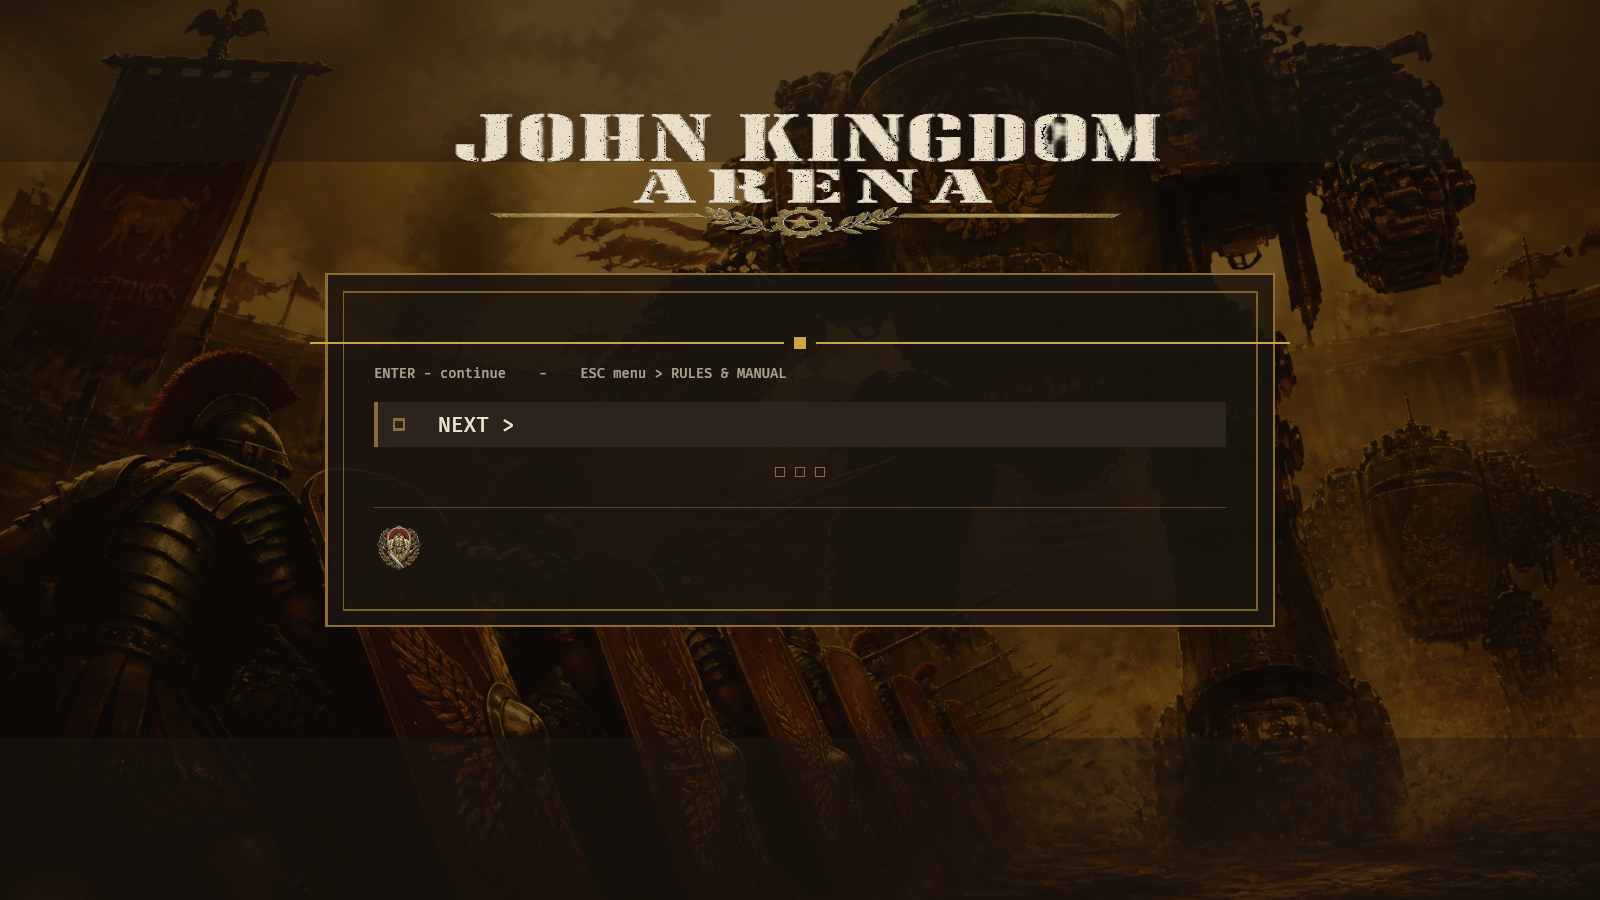
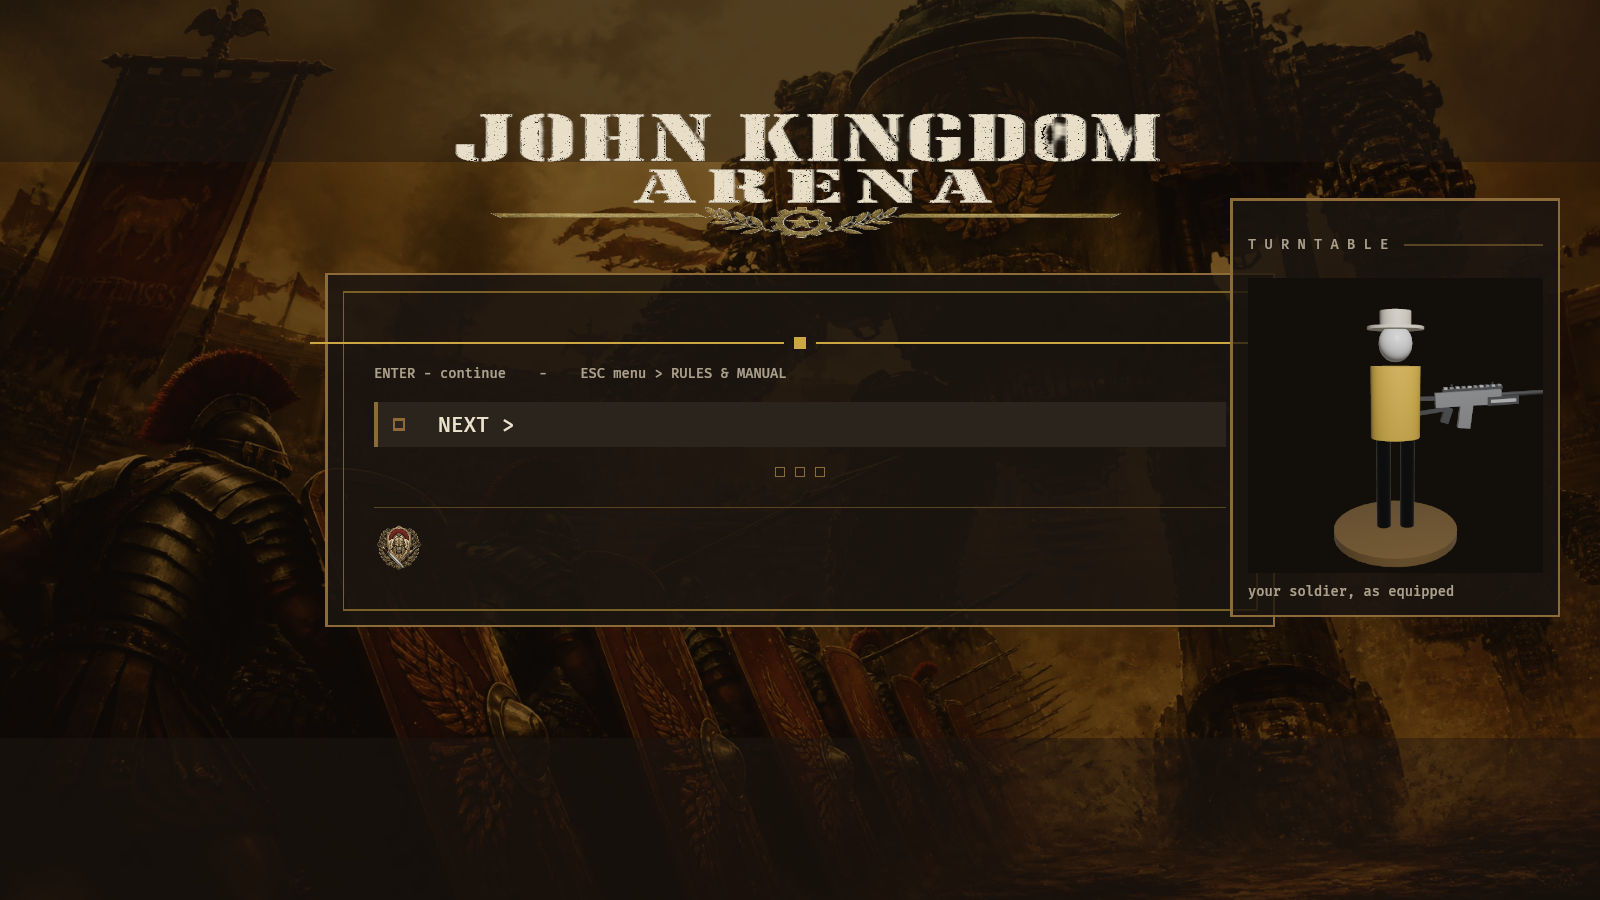
The Forge gets its turntable - the editor finally shows you the soldier
§7.2/§8.2's centrepiece: a live, rotating preview of the kit you are
assembling, rendered on its own layer to a texture the soldier page
frames. Pick a hat and the mannequin's hat recolours; pick a tunic,
same; pick a primary and the weapon on the stand swaps to that model.
The stand turns at 0.55 rad/s, Intro only.

MECHANISM. A stage far under the map - pedestal, mannequin, one
pre-spawned weapon model per kind - on FORGE_PREVIEW_LAYER, filmed by
its own camera (order -2) into a 512px Bgra8UnormSrgb target that a UI
ImageNode displays inside an engraved card. Layer isolation cuts both
ways: the main camera never sees the stage, the stage camera never sees
the world. RenderLayers does not propagate to children in Bevy 0.15, so
the stage tree is stamped once post-flush - the same pattern
tag_viewmodel_layer has always used, for the same reason.

ONE ORDERING TRAP, DODGED BY DESIGN THIS TIME. The card cannot be
spawned inside open_intro: the app boots into Intro and that first
OnEnter runs before setup has built the stage - the exact trap that once
cost the intro its key art. Instead a late-attach system adds the card
whenever an IntroRoot exists without one and the stage is ready. No
ordering to get right at all; the first capture caught the missing card
and the second proves it attached.

The cosmetic materials are unique handles recoloured in place, and the
sync system only runs when Selected actually changes.
[…]

Changed region(s): [[0.75, 0.2178, 1.0, 0.6844]]

diff --git a/engine/crates/jk_tdm/src/main.rs b/engine/crates/jk_tdm/src/main.rs
@@ -1757,6 +1757,27 @@ const N_WEAPONS: usize = 11;
 /// §2.3: render layer for the first-person viewmodel - seen only by the
 /// dedicated fixed-FOV viewmodel camera, never by the world camera.
 const VIEWMODEL_LAYER: usize = 1;
+/// §7.2/§8.2: the Forge TURNTABLE renders on its own layer, to a texture
+/// the soldier page shows as a UI image. Layer isolation means the main
+/// camera never sees the stage and the stage camera never sees the world.
+const FORGE_PREVIEW_LAYER: usize = 6;
+const FORGE_PREVIEW_PX: u32 = 512;
+/// The stage lives far under the map - irrelevant to rendering (layers
+/// isolate it) but keeps physics/audio/debug tooling from ever tripping
+/// over it.
+const FORGE_STAGE_POS: Vec3 = Vec3::new(300.0, -50.0, 300.0);
+
+/// §7.2: the turntable's handles - the UI image, the rotating stand, one
+/// pre-spawned weapon model per kind, and the two cosmetic materials the
+/// sync system recolours in place.
+#[derive(Resource)]
+struct ForgePreview {
+    image: Handle<Image>,
+    stand: Entity,
+    weapons: [Entity; N_WEAPONS],
+    hat_mat: Handle<StandardMaterial>,
+    tunic_mat: Handle<StandardMaterial>,
+}
 /// Viewmodel camera FOV. §1.2 (Brief VI): CS:GO Classic preset = 68°.
 const VM_FOV_DEG: f32 = 68.0;
 // ---- §1.3 (Brief VI): the no-bounce contract ------------------------------
@@ -4062,6 +4083,7 @@ fn main() {
                 minimap_system,
                 zone_overlay,
                 tag_viewmodel_layer,
+                tag_forge_preview_layer,
             ),
         )
         .init_resource::<DebugZones>()
@@ -4113,6 +4135,9 @@ fn main() {
                 intro_diff_buttons,
                 intro_size_buttons,
                 tech_readout, // §14: live weapon numbers on the loadout
+                forge_preview_spin,
+                forge_preview_sync,
+                attach_turntable_card,
                 forge_keybinds, // §7.2 (Brief VII v2): Ctrl+1/2/3 save, 1/2/3 load
                 lobby_toast,    // ...and where its confirmations appear
             )
@@ -5955,6 +5980,7 @@ fn setup(
     asset_server: Res<AssetServer>,
     mut meshes: ResMut<Assets<Mesh>>,
     mut materials: ResMut<Assets<StandardMaterial>>,
+    mut images: ResMut<Assets<Image>>,
 ) {
     let game = Game {
         sim: TdmSim::new(MatchConfig::default()),
@@ -6114,6 +6140,133 @@ fn setup(
     let red = materials.add(unlit(Color::srgb(0.92, 0.18, 0.15)));
     commands.insert_resource(BarAssets { green, orange, red });
     commands.insert_resource(kit.clone());
+
+    // ---- §7.2 the Forge turntable stage --------------------------------
+    // A mannequin on a slowly turning pedestal, lit and filmed by its own
+    // camera into a texture. The soldier page frames that texture, so the
+    // player SEES the kit they are assembling - the piece that turns the
+    // Forge from a save file into an editor.
+    {
+        use bevy::render::camera::RenderTarget;
+        use bevy::render::render_resource::{
+            Extent3d, TextureDescriptor, TextureDimension, TextureFormat, TextureUsages,
+        };
+        let size = Extent3d {
+            width: FORGE_PREVIEW_PX,
+            height: FORGE_PREVIEW_PX,
+            depth_or_array_layers: 1,
+        };
+        let mut target = Image {
+            texture_descriptor: TextureDescriptor {
+                label: Some("forge_turntable"),
+                size,
+                dimension: TextureDimension::D2,
+                format: TextureFormat::Bgra8UnormSrgb,
+                mip_level_count: 1,
+                sample_count: 1,
+                usage: TextureUsages::TEXTURE_BINDING
+                    | TextureUsages::COPY_DST
+                    | TextureUsages::RENDER_ATTACHMENT,
+                view_formats: &[],
+            },
+            ..default()
+        };
+        target.resize(size);
+        let image = images.add(target);
+
+        // the stage's own camera - renders BEFORE the main pass
+        commands.spawn((
+            Camera3d::default(),
+            Camera {
+                target: RenderTarget::Image(image.clone()),
+                order: -2,
+                clear_color: ClearColorConfig::Custom(Color::srgb(0.07, 0.055, 0.04)),
+                ..default()
+            },
+            Transform::from_translation(FORGE_STAGE_POS + Vec3::new(1.5, 1.35, 2.1))
+                .looking_at(FORGE_STAGE_POS + Vec3::new(0.0, 0.85, 0.0), Vec3::Y),
+            RenderLayers::layer(FORGE_PREVIEW_LAYER),
+        ));
+        commands.spawn((
+            PointLight {
+                intensity: 300_000.0,
+                range: 12.0,
+                ..default()
+            },
+            Transform::from_translation(FORGE_STAGE_POS + Vec3::new(1.6, 2.6, 1.4)),
+            RenderLayers::layer(FORGE_PREVIEW_LAYER),
+        ));
+
+        // unique cosmetic materials the sync system recolours in place
+        let hat_mat = materials.add(metal(Color::srgb(0.92, 0.90, 0.85), 0.0, 0.5));
+        let tunic_mat = materials.add(metal(Color::srgb(0.80, 0.65, 0.26), 0.0, 0.55));
+        let shell = materials.add(metal(Color::srgb_u8(0xED, 0xEE, 0xF0), 0.0, 0.42));
+        let dark = materials.add(metal(Color::srgb_u8(0x17, 0x19, 0x1D), 0.85, 0.22));
+        let bronze_ped = materials.add(metal(Color::srgb(0.55, 0.42, 0.22), 0.3, 0.5));
+
+        // the STAND - everything on it rotates together
+        let stand = commands
+            .spawn((
+                Transform::from_translation(FORGE_STAGE_POS),
+                Visibility::default(),
+            ))
+            .id();
+        let part = |commands: &mut Commands,
+                    mesh: Handle<Mesh>,
+                    mat: Handle<StandardMaterial>,
+                    tr: Vec3,
+                    sc: Vec3| {
+            let e = commands
+                .spawn((
+                    Mesh3d(mesh),
+                    MeshMaterial3d(mat),
+                    Transform {
+                        translation: tr,
+                        rotation: Quat::IDENTITY,
+                        scale: sc,
+                    },
+                ))
+                .set_parent(stand)
+                .id();
+            e
+        };
+        // pedestal
+        part(&mut commands, kit.cyl.clone(), bronze_ped, Vec3::new(0.0, 0.03, 0.0), Vec3::new(0.95, 0.06, 0.95));
+        // mannequin: legs / torso in TUNIC / head / HAT crown + brim
+        part(&mut commands, kit.cyl.clone(), dark.clone(), Vec3::new(-0.09, 0.42, 0.0), Vec3::new(0.11, 0.72, 0.11));
+        part(&mut commands, kit.cyl.clone(), dark.clone(), Vec3::new(0.09, 0.42, 0.0), Vec3::new(0.11, 0.72, 0.11));
+        part(&mut commands, kit.cyl.clone(), tunic_mat.clone(), Vec3::new(0.0, 1.02, 0.0), Vec3::new(0.36, 0.52, 0.26));
+        part(&mut commands, kit.ball.clone(), shell, Vec3::new(0.0, 1.44, 0.0), Vec3::new(0.24, 0.26, 0.24));
+        part(&mut commands, kit.cyl.clone(), hat_mat.clone(), Vec3::new(0.0, 1.60, 0.0), Vec3::new(0.22, 0.12, 0.22));
+        part(&mut commands, kit.cyl.clone(), hat_mat.clone(), Vec3::new(0.0, 1.545, 0.0), Vec3::new(0.40, 0.02, 0.40));
+        // one weapon model per kind, held out beside the mannequin; the
+        // sync system shows the selected primary and hides the rest
+        let mut weapons = [Entity::PLACEHOLDER; N_WEAPONS];
+        for (wi, wk) in ALL_WEAPONS.into_iter().enumerate() {
+            let model = spawn_weapon_model(&mut commands, &kit, wk, true, false);
+            commands
+                .entity(model)
+                .insert((
+                    Transform {
+                        translation: Vec3::new(0.44, 1.02, 0.0),
+                        // side-on, slightly raked - a display pose
+                        rotation: Quat::from_rotation_y(FRAC_PI_2)
+                            * Quat::from_rotation_x(-0.06),
+                        scale: Vec3::splat(1.15),
+                    },
+                    Visibility::Hidden,
+                ))
+                .set_parent(stand);
+            weapons[wi] = model;
+        }
+        commands.insert_resource(ForgePreview {
+            image,
+            stand,
+            weapons,
+            hat_mat,
+            tunic_mat,
+        });
+    }
 
     // ---- shot / impact FX pools ----------------------------------------
     commands.insert_resource(FxAssets {
@@ -9846,6 +9999,146 @@ fn camera_system(
 /// walk the viewmodel hierarchy once (after the spawn flush) and stamp
 /// every descendant onto the viewmodel layer so only the fixed-FOV
 /// viewmodel camera renders it.
+#[derive(Component)]
+struct TurntableCard;
+
+/// §7.2: attach the turntable card to the intro AFTER both exist.
+///
+/// It cannot be spawned inside `open_intro`: the app boots into Intro and
+/// that first `OnEnter` runs before `setup` has built the stage - the
+/// same startup-ordering trap that once cost the intro its key art. A
+/// late attach needs no ordering at all: whenever an IntroRoot exists
+/// with no card and the stage is ready, the card appears.
+fn attach_turntable_card(
+    mut commands: Commands,
+    fp: Option<Res<ForgePreview>>,
+    intro: Query<Entity, With<IntroRoot>>,
+    existing: Query<(), With<TurntableCard>>,
+) {
+    let Some(fp) = fp else { return };
+    if !existing.is_empty() {
+        return;
+    }
+    let Ok(root) = intro.get_single() else { return };
+    commands.entity(root).with_children(|p| {
+        p.spawn((
+            Node {
+                position_type: PositionType::Absolute,
+                right: Val::Percent(2.5),
+                top: Val::Percent(22.0),
+                width: Val::Px(264.0),
+                flex_direction: FlexDirection::Column,
+                border: UiRect::all(Val::Px(menu_ui::RULE_STAMP_PX)),
+                padding: UiRect::all(Val::Px(menu_ui::U3)),
+                row_gap: Val::Px(menu_ui::U2),
+                ..default()
+            },
+            BackgroundColor(menu_ui::shadow_a(menu_ui::PLATE_A)),
+            BorderColor(branding::palette::BRONZE),
+            BorderRadius::ZERO,
+            ZIndex(menu_ui::ZL_PLATE),
+            OnIntroPage(IntroPage::SOLDIER),
+            TurntableCard,
+        ))
+        .with_children(|card| {
+            menu_ui::eyebrow(card, "TURNTABLE");
+            card.spawn((
+                Node {
+                    width: Val::Px(236.0),
+                    height: Val::Px(236.0),
+                    border: UiRect::all(Val::Px(menu_ui::RULE_HAIR_PX)),
+                    ..default()
+                },
+                BorderColor(menu_ui::gold_a(menu_ui::FRAME_INNER_A)),
+                ImageNode {
+                    image: fp.image.clone(),
+                    ..default()
+                },
+            ));
+            card.spawn((
+                Text::new("your soldier, as equipped"),
+                TextFont {
+                    font_size: menu_ui::T_MICRO,
+                    ..default()
+                },
+                TextColor(branding::palette::PARCHMENT_DIM),
+            ));
+        });
+    });
+}
+
+/// §7.2: stamp the whole turntable stage onto its layer once the spawn
+/// flush has run - RenderLayers does not propagate to children in Bevy
+/// 0.15, the same reason `tag_viewmodel_layer` below exists.
+fn tag_forge_preview_layer(
+    mut done: Local<bool>,
+    mut commands: Commands,
+    fp: Res<ForgePreview>,
+    children: Query<&Children>,
+) {
+    if *done {
+        return;
+    }
+    let mut stack = vec![fp.stand];
+    let mut count = 0usize;
+    while let Some(e) = stack.pop() {
+        commands
+            .entity(e)
+            .insert(RenderLayers::layer(FORGE_PREVIEW_LAYER));
+        count += 1;
+        if let Ok(ch) = children.get(e) {
+            stack.extend(ch.iter().copied());
+        }
+    }
+    if count > 1 {
+        *done = true;
+    }
+}
+
+/// §7.2: the turntable TURNS. Intro only - the stage is invisible
+/// everywhere else, so spinning it would be free but pointless.
+fn forge_preview_spin(
+    time: Res<Time>,
+    fp: Res<ForgePreview>,
+    mut q: Query<&mut Transform>,
+) {
+    if let Ok(mut tf) = q.get_mut(fp.stand) {
+        tf.rotate_y(0.55 * time.delta_secs());
+    }
+}
+
+/// §7.2: the mannequin WEARS the current picks. Hat and tunic recolour
+/// their unique materials in place; the weapon rack shows the selected
+/// primary and hides the rest.
+fn forge_preview_sync(
+    sel: Res<Selected>,
+    fp: Res<ForgePreview>,
+    mut materials: ResMut<Assets<StandardMaterial>>,
+    mut vis: Query<&mut Visibility>,
+) {
+    if !sel.is_changed() {
+        return;
+    }
+    let (_, (hr, hg, hb)) = HAT_CHOICES[sel.hat % HAT_CHOICES.len()];
+    if let Some(mat) = materials.get_mut(&fp.hat_mat) {
+        mat.base_color = Color::srgb(hr, hg, hb);
+    }
+    let (_, (tr, tg, tb)) = TUNIC_CHOICES[sel.tunic % TUNIC_CHOICES.len()];
+    if let Some(mat) = materials.get_mut(&fp.tunic_mat) {
+        mat.base_color = Color::srgb(tr, tg, tb);
+    }
+    let show = ALL_WEAPONS.iter().position(|w| *w == sel.loadout[0]);
+    for (wi, e) in fp.weapons.iter().enumerate() {
+        if let Ok(mut v) = vis.get_mut(*e) {
+            *v = if Some(wi) == show {
+                Visibility::Visible
+            } else {
+                Visibility::Hidden
+            };
+        }
+    }
+}
+
 fn tag_viewmodel_layer(
     mut done: Local<bool>,
     mut commands: Commands,
